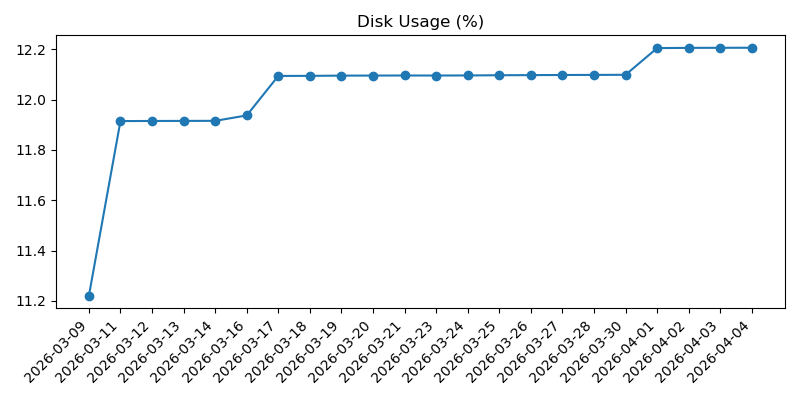
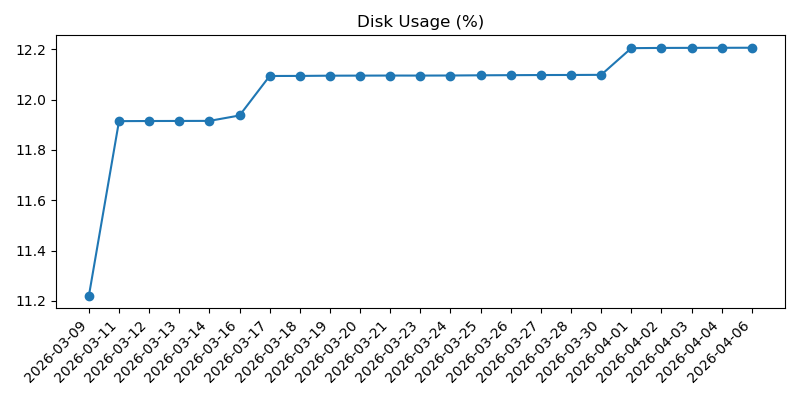
Update Pi daily status

diff --git a/2026-04.md b/2026-04.md
@@ -136,3 +136,37 @@
 - Overall: Good
 - Warning: None
 
+## 2026-04-06 09:26:18
+
+### Machine
+- Uptime: up 5 days, 19 hours, 22 minutes
+- CPU load (1m, 5m, 15m): 0.00, 0.00, 0.00
+- RAM used: 168 MB / 921 MB (18.2%)
+- Disk used (/): 3.5 GB / 28.8 GB (12.2%)
+- Free disk space (/): 24.1 GB
+- CPU temp: 36.5°C
+- Voltage / throttling: OK
+
+### Reachability
+- Internet check (1.1.1.1): Reachable (4.2 ms)
+
+### Weather
+- Madrid:
+  - Condition: Poco nuboso
+  - Max temp: 27°C
+  - Min temp: 14°C
+  - Feels like: 20°C
+  - Chance of rain: 0%
+  - Warnings: None reported
+- Barcelona:
+  - Condition: Despejado
+  - Max temp: 22°C
+  - Min temp: 13°C
+  - Feels like: 16°C
+  - Chance of rain: 0%
+  - Warnings: None reported
+
+### Health
+- Overall: Good
+- Warning: None
+
